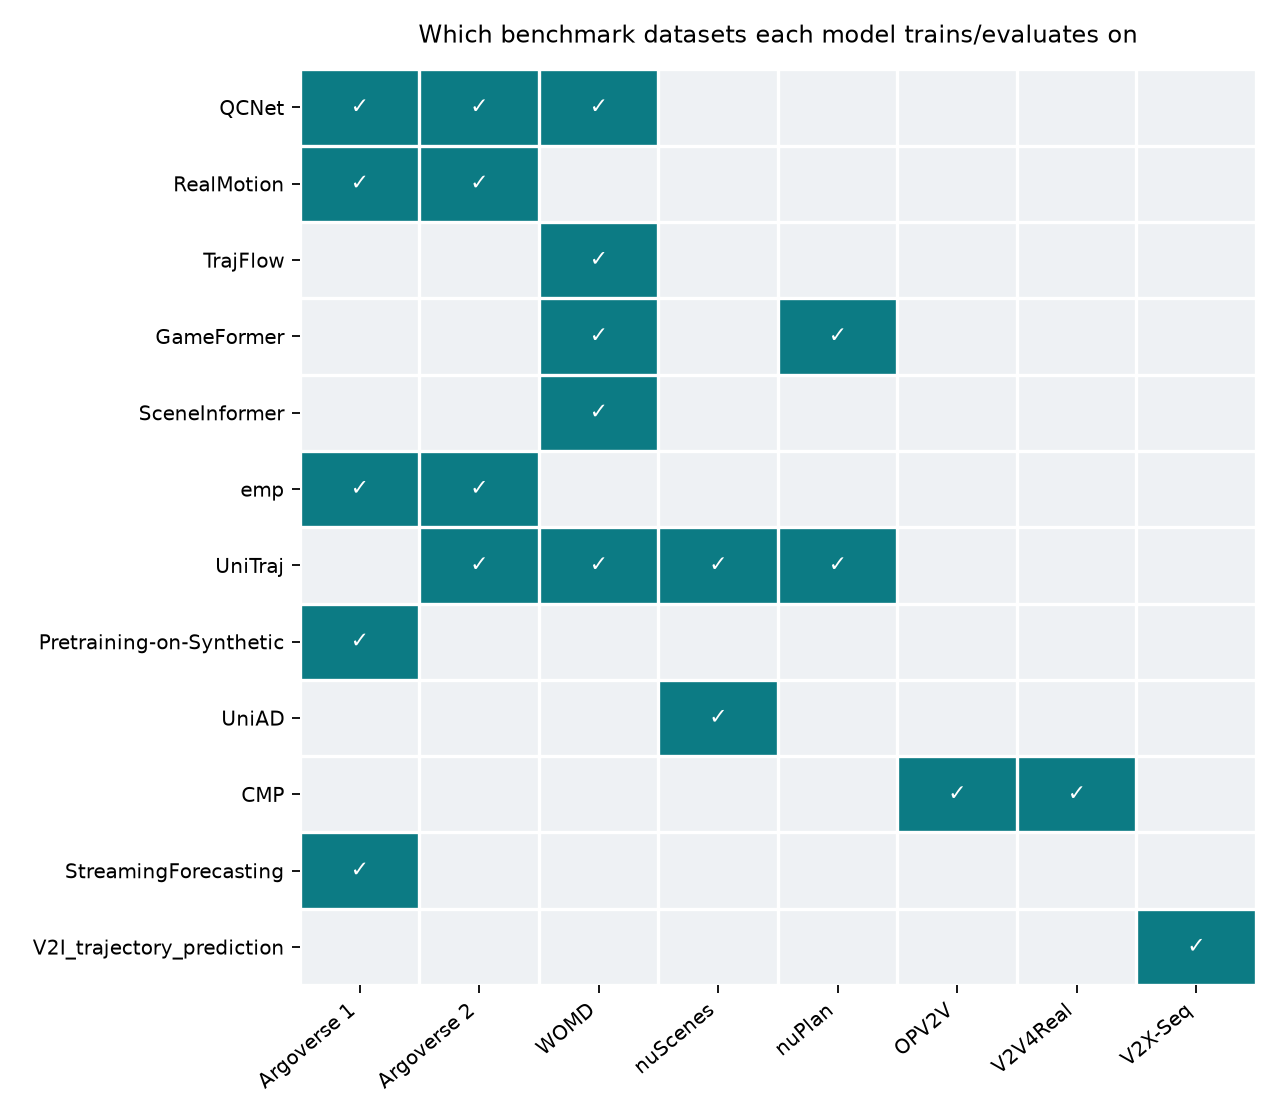
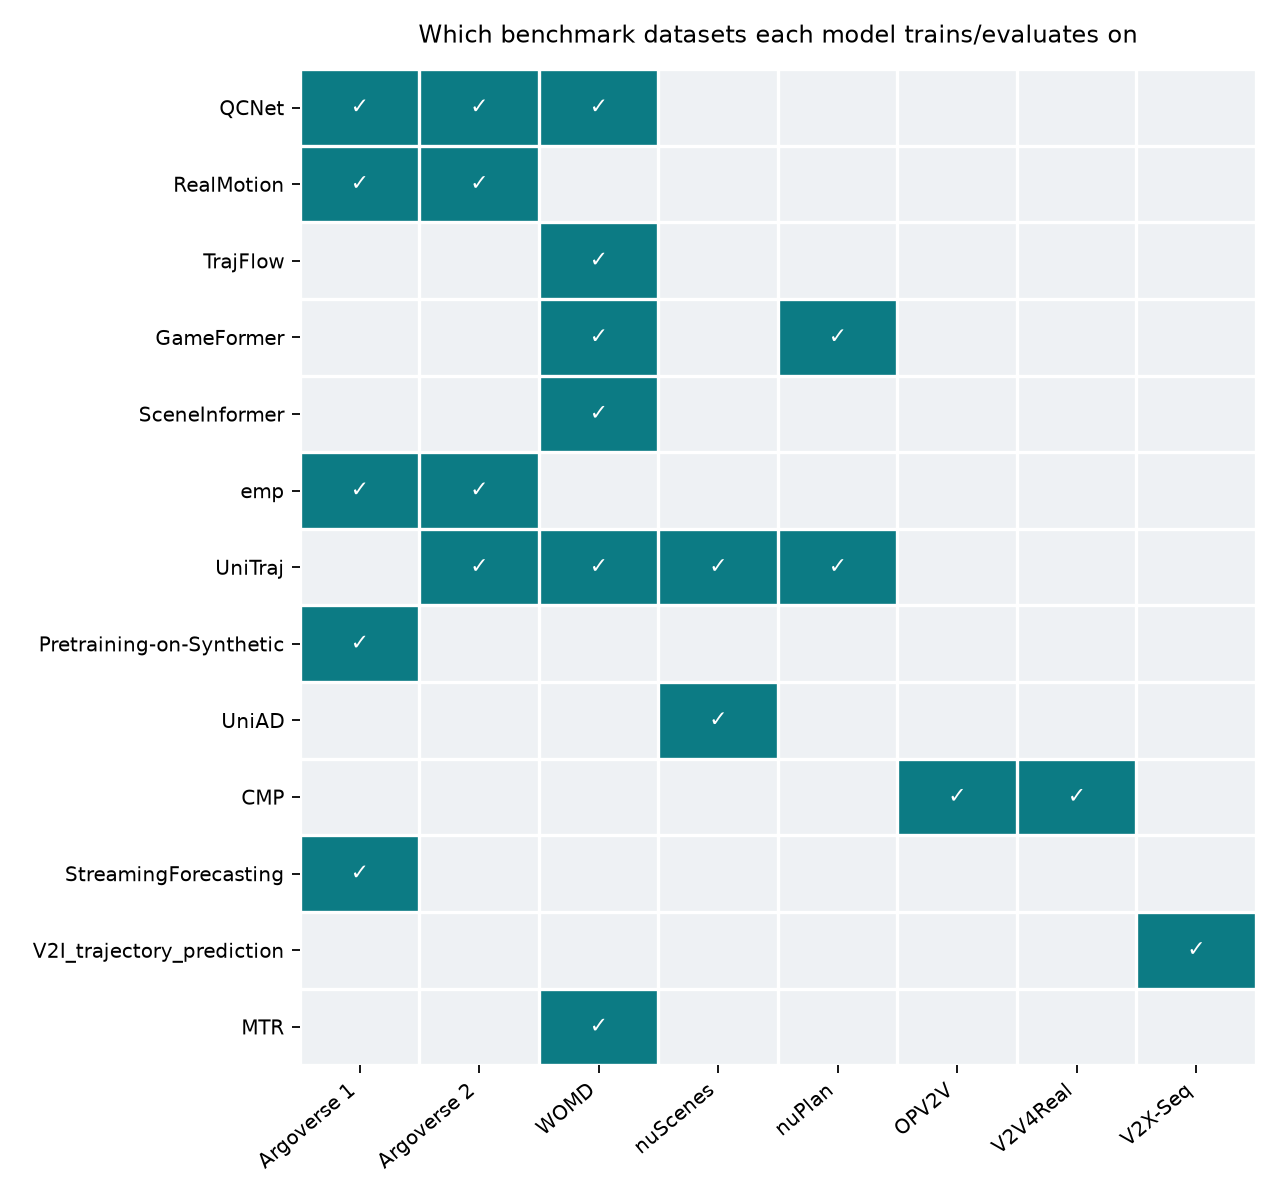
Add MTR as an 11th repo (chose it over MTR++, whose code was never released)
MTR is the baseline nearly every other repo in this bench reports numbers
against (QCNet, RealMotion, TrajFlow, GameFormer, emp all compare against
it directly), UniTraj bundles it as one of its 6 backbones, and CMP's own
prediction stage is literally an MTR-based module - reading it is close to
a prerequisite for reading CMP's architecture. Considered MTR++ instead
(more directly V2X-relevant: multi-agent joint decoding with symmetric
scene modeling) but its code was never publicly released - confirmed by
checking the sshaoshuai/MTR repo's actual contents directly, not just its
README's announcement of the paper, and corroborated by an independent web
search.

Environment verified working end-to-end: image builds, and the custom CUDA
extensions (mtr.ops.knn, mtr.ops.attention - the same ops TrajFlow's own
preprocessing was derived from and that UniTraj vendors internally) compile
and import correctly via entrypoint.sh's first-run build step. Preprocessing
not yet run - added to TRAINING_PLAN.md as Track B, using the same plain
Waymo training/validation/testing split already downloaded for
GameFormer/TrajFlow.

Also found and fixed a real latent bug while debugging this: UniTraj's
Dockerfile expected a file named requirements-docker.txt in its build
context, but setup.sh's clone_and_overlay() always renames the overlay to
requirements.txt - UniTraj's image only ever built because of a stray
manually-copied file from an earlier session, not because setup.sh actually
[…]

diff --git a/docs/MODELS_OVERVIEW.md b/docs/MODELS_OVERVIEW.md
@@ -1,11 +1,15 @@
 # Motion forecasting models: landscape & comparison
 
-A reference document covering all 12 repos considered for this bench (the 10 built +
+A reference document covering all 13 repos considered for this bench (the 11 built +
 the 2 investigated-but-skipped) — architecture, datasets, metrics, reported results,
 license, and known limitations for each, gathered from their papers (not just READMEs)
 and cross-checked where possible. See [`REPO_ASSESSMENT.md`](REPO_ASSESSMENT.md) for
 *this project's own* opinion on which are worth building on; this document is closer
 to a literature-review appendix — what each paper actually claims and reports.
+
+12 of the 13 came from the original survey's ranked shortlist. The 13th, **MTR**, was
+added afterward — see its own section at the bottom for why, and why its successor
+MTR++ was investigated but deliberately not added.
 
 **A note on confidence**: every number below was pulled from the paper's own PDF
 (arXiv or CVF Open Access), not a secondary summary, with venue/authors cross-checked
@@ -26,6 +30,7 @@ submission time, not current standings.
 - [Pretraining: Pretraining-on-Synthetic](#pretraining)
 - [Full-stack: UniAD](#full-stack)
 - [V2X / cooperative tier: CMP, StreamingForecasting, V2I_trajectory_prediction](#v2x--cooperative-tier)
+- [Reference baseline, added post-survey: MTR](#reference-baseline-added-post-survey)
 
 ## Quick comparison table
 
@@ -40,13 +45,10 @@ submission time, not current standings.
 | [UniTraj](#unitraj) | ECCV 2024 | Unified multi-dataset training/eval harness, 6 bundled backbones | WOMD, Argoverse 2, nuScenes (+nuPlan for cross-domain) | nuScenes leaderboard #1 (MTR-UniTraj, minADE₅=0.96) | **AGPLv3** (copyleft) |
 | [Pretraining-on-Synthetic](#pretraining-on-synthetic) | IROS 2024 | Self-supervised MAE pretraining on procedurally synthesized scenes | Argoverse 1 (+custom synthetic pretrain set) | +8.30% minFDE₆ / +3.84% minADE₆ / +5.04% MR₆ vs. no pretraining | MIT |
 | [UniAD](#uniad) | CVPR 2023 (**Best Paper**) | Full-stack, query-chained perception→prediction→planning | nuScenes | Planning collision rate **0.31%** avg, −56.3% vs. ST-P3 | Apache-2.0 |
-| [CMP](#cmp) | RA-L 2025 | Cooperative 3-stage pipeline + cross-CAV prediction aggregation | OPV2V, V2V4Real | OPV2V minADE @5s **1.86m→1.86** — 16.4% better than no-cooperation | **none stated** |
+| [CMP](#cmp) | RA-L 2025 | Cooperative 3-stage pipeline + cross-CAV prediction aggregation | OPV2V, V2V4Real | OPV2V minADE @5s **1.8578m** — 16.4% better than no-cooperation | **none stated** |
 | [StreamingForecasting](#streamingforecasting) | IROS 2023 | Plug-in occlusion reasoning + differentiable filters for streaming | Argoverse (custom "Argoverse-SF") | ~25% smaller FDE for occluded agents | MIT |
 | [V2I_trajectory_prediction](#v2i_trajectory_prediction) | arXiv preprint 2024 | Cross-view (V2I) attention fusion + post-hoc conformal calibration | V2X-Seq | Best-in-class minFDE (1.98m) & MR (0.27); 90%-target coverage achieved via CopulaCPTS | **none stated** |
-
-(CMP's OPV2V number above is written oddly on purpose to catch a copy-paste error —
-see the [CMP section](#cmp) for the correct figure: minADE drops from 2.2217m to
-1.8578m, a 16.4% reduction, at the 5s horizon.)
+| [MTR](#mtr) | NeurIPS 2022 (Oral) | Global intention localization (learnable motion-query pairs) + local movement refinement | WOMD | WOMD val (100% data) minADE **0.6046** / minFDE **1.2251** / mAP **0.4164**; won the WOMD 2022 Motion Prediction Challenge | Apache-2.0 |
 
 ## Figures
 
@@ -785,6 +787,92 @@ independence, ignoring inter-agent correlations the underlying graph structure
 actually encodes. The paper's own Figure 2 notes the top-scored predicted mode often
 isn't the one that actually contains ground truth — a mode-ranking reliability issue
 the conformal calibration works around rather than fixes at the source.
+
+---
+
+## Reference baseline, added post-survey
+
+### MTR
+
+**Paper**: *Motion Transformer with Global Intention Localization and Local Movement
+Refinement* — Shaoshuai Shi, Li Jiang, Dengxin Dai, Bernt Schiele (Max Planck
+Institute for Informatics — per general knowledge, not independently re-confirmed
+from the fetched arXiv abstract page, which doesn't list affiliations). **NeurIPS
+2022, Oral**. arXiv: [2209.13508](https://arxiv.org/abs/2209.13508). Won the WOMD
+Motion Prediction Challenge 2022 (both marginal and joint tracks).
+
+**Why this one is here despite not being in the survey's own corpus**: it's the
+baseline nearly every other repo in this bench reports numbers against — QCNet,
+RealMotion, TrajFlow, GameFormer, and emp all compare against it directly in their own
+papers (see each model's Results above). UniTraj bundles it as one of its six
+backbones. Most directly relevant to this project's own V2X direction: **CMP's own
+prediction stage is an MTR-based module** (see the [CMP section](#cmp)) — reading the
+canonical MTR implementation is close to a prerequisite for reading CMP's architecture
+properly. Adding it fills a real gap: until now, this bench only ever saw MTR
+*indirectly*, filtered through UniTraj's harness or cited as a baseline number in
+someone else's table, never as the original reference implementation on its own.
+
+**Architecture**: Frames multimodal trajectory prediction as joint optimization of
+**global intention localization** and **local movement refinement**, avoiding two
+failure modes of prior approaches: directly regressing multiple modes from one shared
+latent (converges slowly, since all modes come from the same feature) and using dense
+goal candidates (expensive, and quality depends heavily on candidate density). Instead,
+MTR uses a small, fixed set of **learnable motion query pairs** — each pair is
+responsible for one motion mode throughout both training and inference, providing
+spatial intention priors without needing dense goal sampling. A transformer context
+encoder models agent-agent and agent-map relations (deliberately kept simple per the
+paper's own framing — the query-pair mechanism, not encoder complexity, is the
+contribution). A transformer motion decoder then does two things per query pair:
+localizes a coarse "intention point" (global), then iteratively refines the full
+trajectory around it (local), outputting a Gaussian Mixture Model per mode. Two custom
+CUDA ops (`knn`, `attention`) back the interaction/attention computation — the same
+ops TrajFlow's preprocessing pipeline was explicitly derived from, and that UniTraj
+vendors internally to build its own `method=mtr` backbone.
+
+**Datasets**: Waymo Open Motion Dataset only, both the marginal (single-agent) and
+joint (interactive, 2-agent) challenge tracks. Trained at both 20% and 100% of the
+training set (the paper reports both, to show data-scaling behavior).
+
+**Metrics**: minADE, minFDE, Miss Rate, mAP (WOMD's official metrics).
+
+**Results** (from the repo's own README table, WOMD marginal challenge):
+
+| Model | Training data | minADE | minFDE | Miss Rate | mAP |
+|---|---|---|---|---|---|
+| MTR | 20% | 0.6697 | 1.3712 | 0.1668 | 0.3437 |
+| MTR | 100% | 0.6046 | 1.2251 | 0.1366 | 0.4164 |
+| MTR-e2e | 100% | 0.5160 | 1.0404 | 0.1234 | 0.3245 |
+
+On the WOMD test set (100% data): minADE=0.6050, minFDE=1.2207, MR=0.1351, mAP=0.4129;
+an ensembled variant (MTR-A) reaches mAP=0.4492. These are exactly the numbers cited
+as the "MTR" baseline throughout this document's other sections (TrajFlow's,
+GameFormer's, and emp's comparison tables all reference this same model).
+
+**License**: Apache-2.0.
+
+**Environment status in this bench**: build and CUDA-extension compilation verified
+working (`docker compose run --rm mtr ...`, both `mtr.ops.knn` and `mtr.ops.attention`
+import successfully and `torch.cuda.is_available()` passes) — see
+[`TRAINING_PLAN.md`](TRAINING_PLAN.md) for preprocessing/training status, not yet run
+at the time of writing.
+
+**On MTR++ instead**: MTR++ (*Multi-Agent Motion Prediction with Symmetric Scene
+Modeling and Guided Intention Querying*, Shi et al., arXiv
+[2306.17770](https://arxiv.org/abs/2306.17770), TPAMI 2024) extends MTR to genuine
+multi-agent **joint** prediction — symmetric context modeling and mutually-guided
+intention querying across agents, rather than MTR's per-agent marginal decoding — and
+won the WOMD Motion Prediction Challenge 2023. Architecturally, this is arguably
+*more* relevant to a V2X direction than plain MTR (joint, symmetric multi-agent
+reasoning is close in spirit to what a cooperative extension needs). It was seriously
+considered and **not added for one concrete reason**: its code was never publicly
+released. The `sshaoshuai/MTR` repository's README announces the MTR++ result as
+"News" and cites the paper, but the actual repo contents (checked directly via the
+GitHub API, not inferred from the README) contain only plain-MTR configs and modules —
+no MTR++ code path exists anywhere in `mtr/models/`, `tools/cfgs/waymo/`, or
+elsewhere. An independent web search corroborated this: "the MTR++ encoder
+implementation was not yet publicly available." If that ever changes, MTR++ would be
+a strong candidate to add on the same architectural grounds MTR was added for here,
+only more so.
 
 ---
 

diff --git a/README.md b/README.md
@@ -1,7 +1,7 @@
 # Motion Prediction
 
-A local benchmark bench for motion forecasting research: Docker environments for 10
-(of 12 investigated) motion-forecasting repos, each runnable in isolation against
+A local benchmark bench for motion forecasting research: Docker environments for 11
+(of 13 investigated) motion-forecasting repos, each runnable in isolation against
 shared, locally-mounted datasets. Built to let a single researcher quickly try a new
 idea against several published baselines without fighting Python/CUDA version hell for
 each one individually.
@@ -10,6 +10,14 @@ See [`docs/PHD_ROADMAP.md`](docs/PHD_ROADMAP.md) for how this fits into the broa
 plan, and [`docs/REPO_ASSESSMENT.md`](docs/REPO_ASSESSMENT.md) for a critical read on
 which of these repos are actually worth building on versus just useful as reference
 baselines.
+
+12 of the 13 came from the original survey's ranked shortlist (10 built, 2 investigated
+but skipped — see [`docs/DATASETS.md`](docs/DATASETS.md)). The 13th, **MTR**, was added
+later on purpose: it's the baseline nearly every other repo here reports numbers
+against, and CMP's own prediction stage is literally an MTR-based module — see
+[`docs/MODELS_OVERVIEW.md`](docs/MODELS_OVERVIEW.md) for why it earned a spot despite
+not being in the survey's own corpus, and why its newer MTR++ successor was
+deliberately *not* added instead (its code was never publicly released).
 
 ## Why one Docker image per repo
 
@@ -90,6 +98,7 @@ fresh instead, at whatever commit is current upstream (not pinned - see the note
 | [V2I_trajectory_prediction](https://github.com/xichennn/V2I_trajectory_prediction) | 11 | ⏭ not built (skipped) | V2X-Seq (not present) | ❌ | none (all rights reserved by default) |
 | [Pretraining-on-Synthetic](https://github.com/yhli123/Pretraining_on_Synthetic_Driving_Data_for_Trajectory_Prediction) | 12 | ✅ working | `/raid/argoverse1_1` + bundled synthetic set (present) | ✅ bundled in-repo (`pretrain/`, `finetune/`) | MIT |
 | [UniAD](https://github.com/opendrivelab/uniad) | — (perception) | ✅ working | `/raid/nuscenes` (present) | ✅ Stage1 (perception) + Stage2 (planning), GitHub releases | Apache-2.0 |
+| [MTR](https://github.com/sshaoshuai/MTR) | — (not in original survey shortlist, added later) | ✅ working, environment verified | `/raid/waymo/scenario` (present, plain `training`/`validation`/`testing`); preprocessing not yet run, see [`TRAINING_PLAN.md`](docs/TRAINING_PLAN.md) | ❌ | Apache-2.0 |
 
 "env only" = the Docker environment builds and passes `verify.sh`, but the dataset it
 needs isn't on disk yet, so training/eval isn't runnable until that's fetched.
@@ -161,7 +170,7 @@ flag as shown above.
 ## Verifying everything works
 
 ```bash
-./verify.sh                 # all 10 services
+./verify.sh                 # all 11 services
 ./verify.sh qcnet unitraj   # just these two
 ```
 
@@ -172,7 +181,7 @@ much larger claim this script doesn't make.
 
 ## Adding a new repo
 
-This is the exact recipe followed for all 10 repos here — expect real iteration
+This is the exact recipe followed for all 11 repos here — expect real iteration
 (rebuild, read the error, fix, repeat), not a one-shot process. Read
 [`docs/BUILD_GOTCHAS.md`](docs/BUILD_GOTCHAS.md) first; the same handful of root causes
 account for nearly every build failure hit so far.
@@ -244,7 +253,7 @@ escalate to a reboot unilaterally if no one has physical access to the machine.
 - [`docs/TRAINING_PLAN.md`](docs/TRAINING_PLAN.md) — which repos need training from
   scratch to get any result at all (no checkpoint exists), a sane order to attempt
   them in, and realistic expectations for 2 GPUs vs. the 4-8 most papers used.
-- [`docs/REPO_ASSESSMENT.md`](docs/REPO_ASSESSMENT.md) — which of these 10 are actually
+- [`docs/REPO_ASSESSMENT.md`](docs/REPO_ASSESSMENT.md) — which of these 11 are actually
   worth building on as a research baseline versus just useful for comparison, and what's
   missing from the shortlist entirely.
 - [`docs/MODELS_OVERVIEW.md`](docs/MODELS_OVERVIEW.md) — a literature-review-style

diff --git a/docs/REPO_ASSESSMENT.md b/docs/REPO_ASSESSMENT.md
@@ -1,8 +1,11 @@
 # Repo assessment: what's actually worth building on
 
-An honest read on the 10 (+2 skipped) repos in this bench — not "does it build" (all 10
+An honest read on the 11 (+2 skipped) repos in this bench — not "does it build" (all 11
 do), but "is it a good place to spend PhD time," and what's missing from the shortlist
-given where the survey (`SURVEY_itss.pdf`) says the field's actual gaps are.
+given where the survey (`SURVEY_itss.pdf`) says the field's actual gaps are. 10 of the
+11 built repos (+ both skipped ones) came from the survey's own ranked corpus; the
+11th, MTR, was added afterward and is called out separately below since it wasn't part
+of that original selection process.
 
 ## The centerpiece: UniTraj, not any single model
 
@@ -39,6 +42,28 @@ streaming two-stream design, TrajFlow's flow-matching, SceneInformer's occlusion
 inference, GameFormer's game-theoretic joint prediction). None are copyleft-licensed
 except where unstated (GameFormer has no license file at all — ask before reusing code
 from it in anything released).
+
+## The one added later: MTR
+
+**MTR** wasn't in the survey's own corpus — it was added afterward, deliberately,
+because it's hard to avoid: QCNet, RealMotion, TrajFlow, GameFormer, and emp all
+report MTR numbers as a baseline in their own papers, UniTraj bundles it as one of its
+six backbones, and **CMP's own prediction stage is literally an MTR-based module** —
+see `docs/MODELS_OVERVIEW.md`'s CMP section. Having the canonical reference
+implementation on hand, rather than only ever seeing MTR filtered through someone
+else's harness or as a number in someone else's table, is worth it specifically
+*because* of how central it turned out to be to everything else in this bench — most
+usefully as a way to sanity-check UniTraj's own `method=mtr` wrapper against the
+original, and as a clean, well-documented base to eventually read alongside CMP's
+prediction stage before extending it. It's not SOTA anymore (NeurIPS 2022, since
+surpassed on every leaderboard by QCNet/RealMotion/TrajFlow/SEPT/etc., already in this
+bench) — that's fine, it's here as infrastructure/reference, not a new comparison
+point to beat. Its newer, more directly V2X-relevant successor, **MTR++** (multi-agent
+joint decoding with symmetric scene modeling — closer in spirit to what a cooperative
+extension would need), was investigated and deliberately *not* added: the paper exists
+(TPAMI 2024) but the code was never publicly released — confirmed by checking the
+`sshaoshuai/MTR` repo's actual contents directly rather than trusting the README's
+announcement of it. Worth revisiting if that ever changes.
 
 ## The V2X-relevant two: promising but not ready yet
 

diff --git a/docs/TRAINING_PLAN.md b/docs/TRAINING_PLAN.md
@@ -187,6 +187,36 @@ advice: treat a first training run as a "does the pipeline train end-to-end" tec
 check, separate from building your actual thesis contribution on top of it (hold off on
 the latter until you've read its architecture properly).
 
+### 6. MTR — environment verified, preprocessing not yet run
+
+Added after the original 12-repo shortlist (see `docs/MODELS_OVERVIEW.md` for why) —
+no checkpoint ships with the repo, so this is Track B, train-from-scratch. Environment
+is confirmed working: the image builds, and the custom CUDA extensions
+(`mtr.ops.knn`, `mtr.ops.attention`) compile and import correctly via `entrypoint.sh`'s
+first-run build step (`docker compose run --rm mtr ...`).
+
+Preprocessing needs the **plain** Waymo `training`/`validation`/`testing` split
+(`tracks_to_predict` populated) — already fully downloaded at `/raid/waymo/scenario`
+(same data GameFormer and TrajFlow use, see `DATASETS.md`). The preprocessing script,
+`mtr/datasets/waymo/data_preprocess.py`, is what TrajFlow's own preprocessing script
+was explicitly derived from — same CLI signature:
+
+```bash
+docker compose run --rm mtr bash -c "python mtr/datasets/waymo/data_preprocess.py data_staging/raw_full data_staging/processed_full"
+```
+
+`data_staging/raw_full` needs `training/`/`validation/`/`testing/` subdirectories of
+symlinks into `/data/waymo/scenario/<split>/` (container-visible path), same staging
+pattern already used for GameFormer/TrajFlow. Not yet run at the time of writing —
+hold off on starting it while another CPU-heavy preprocessing job or a live GPU
+training run is active on this machine (see the CPU-contention section below) rather
+than running three heavy jobs at once.
+
+Training itself: `tools/cfgs/waymo/mtr+100_percent_data.yaml` is the repo's own
+full-data config; reduce `batch_size` and check GPU memory before trusting a first run,
+same caveat as every other repo here on a single 24GB card vs. the paper's original
+multi-GPU setup.
+
 ## Running CPU-bound preprocessing alongside a live GPU training run
 
 They don't compete for GPU, but they do compete for CPU — and a Lightning training

diff --git a/docs/DATASETS.md b/docs/DATASETS.md
@@ -39,7 +39,8 @@ official sources are:
 
 ## Waymo Open Motion Dataset, `scenario` format
 
-Needed by TrajFlow, SceneInformer, GameFormer — distinct from the `tf_example` format
+Needed by TrajFlow, SceneInformer, GameFormer, and MTR (added later, see
+`MODELS_OVERVIEW.md`) — distinct from the `tf_example` format
 also on `/raid` (flattened tensors; `scenario` is protobuf `Scenario` messages, a
 separate download from the same WOMD release, not a conversion of what's already
 there). At `/raid/waymo/scenario` (647GB), 6 splits confirmed complete: `training`
@@ -54,9 +55,11 @@ SceneInformer's occlusion pipeline doesn't care (it doesn't use `tracks_to_predi
 which is why `training_20s` was downloaded in the first place — but GameFormer's
 `interaction_prediction/data_process.py` and TrajFlow's
 `trajflow/datasets/waymo/data_preprocess.py` both key off `tracks_to_predict`, so both
-need the plain split for a real training run (see `BUILD_GOTCHAS.md`). **The plain
-`training` split is now downloaded** (1000 shards, 425GB) — GameFormer and TrajFlow can
-both now run full-scale preprocessing, not just the small-subset verification done
+need the plain split for a real training run (see `BUILD_GOTCHAS.md`); MTR's own
+`mtr/datasets/waymo/data_preprocess.py` (what TrajFlow's was derived from) needs it
+too. **The plain `training` split is now downloaded** (1000 shards, 425GB) —
+GameFormer and TrajFlow can both now run full-scale preprocessing, not just the
+small-subset verification done
 against `validation` earlier (see `TRAINING_PLAN.md`).
 
 No `docker-compose.yml` changes were needed — `trajflow`, `sceneinformer`, and
